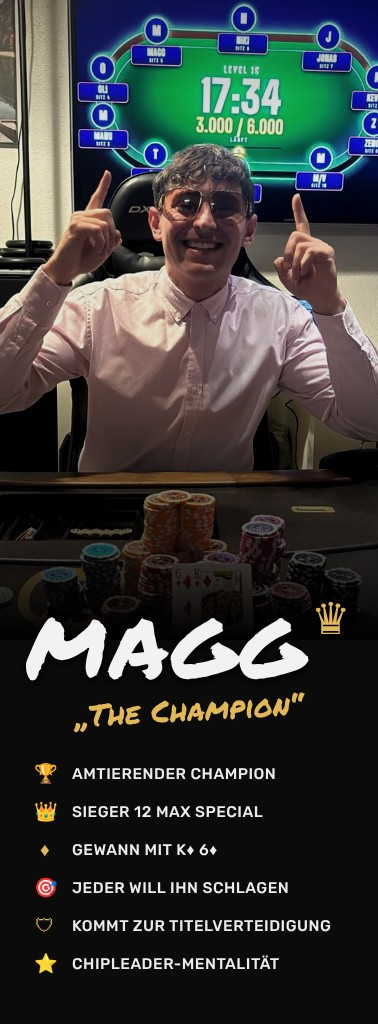
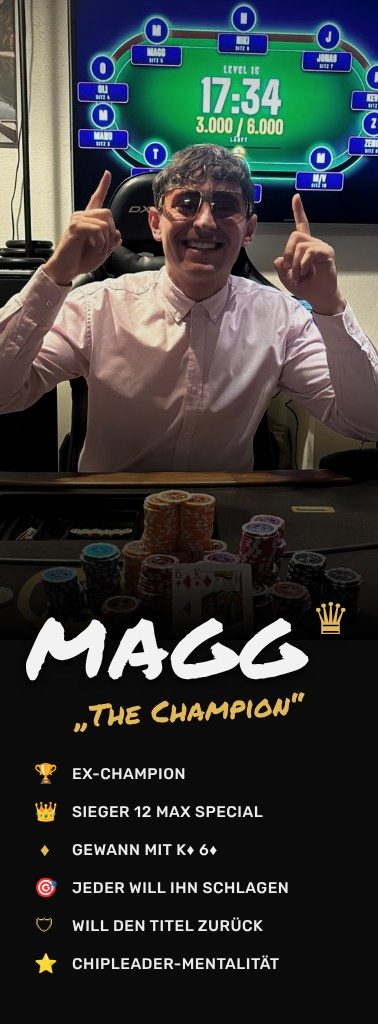
Spielerprofile mit Bankroll-Kurve, Champion-Badge, Magg-Karte Ex-Champion
Claude-Session: https://claude.ai/code/session_01AgPGxtPjejjny7eWLZxXgy

Changed region(s): [[0.2037, 0.875, 0.873, 0.9062], [0.1746, 0.75, 0.7275, 0.7812]]

diff --git a/spieler/index.html b/spieler/index.html
@@ -38,18 +38,56 @@ h1{font-size:clamp(34px,6vw,64px);margin:44px 0 6px;letter-spacing:-.02em;backgr
 .x{position:fixed;top:14px;right:16px;width:42px;height:42px;border-radius:50%;border:1px solid var(--line2);background:#151515;color:var(--fg);font-size:20px;cursor:pointer}
 .nav{position:fixed;top:50%;transform:translateY(-50%);width:46px;height:46px;border-radius:50%;border:1px solid var(--line2);background:#151515;color:var(--fg);font-size:20px;cursor:pointer}
 .nav.l{left:14px}.nav.r{right:14px}
+.champ{position:absolute;left:50%;top:10px;transform:translateX(-50%);z-index:3;white-space:nowrap;font-family:"Geist Mono",monospace;font-size:10px;letter-spacing:.14em;text-transform:uppercase;font-weight:600;color:#1a1305;background:linear-gradient(180deg,var(--gold2),var(--gold));padding:5px 10px;border-radius:999px;box-shadow:0 4px 14px rgba(0,0,0,.6),0 0 18px rgba(226,184,87,.45)}
+.c .champ{font-size:9px;padding:4px 8px}
+.prof{position:fixed;inset:0;z-index:15;background:var(--bg);overflow-y:auto;animation:fade .4s var(--ease) both}
+@keyframes fade{from{opacity:0}}
+.prof .wrap{padding-top:22px;padding-bottom:60px}
+.ptop{display:flex;justify-content:space-between;align-items:center;gap:12px;margin-bottom:22px}
+.pgrid{display:grid;grid-template-columns:minmax(200px,300px) 1fr;gap:32px;align-items:start}
+.pcard{position:relative;aspect-ratio:378/1024;border-radius:16px;overflow:hidden;cursor:zoom-in;border:0;padding:0;background:#111;box-shadow:0 0 0 1px var(--gold3),0 18px 40px rgba(0,0,0,.7);width:100%}
+.pcard img{width:100%;height:100%;object-fit:cover;display:block}
+.pcard .anim,.pcard .fg{position:absolute;left:0;top:0;width:100%;height:62.5%}
+.pname{font-size:clamp(34px,5vw,56px);font-weight:650;letter-spacing:-.02em;margin:0;background:linear-gradient(180deg,var(--gold2),var(--gold));-webkit-background-clip:text;background-clip:text;color:transparent}
+.pnick{color:var(--grey);font-family:"Geist Mono",monospace;font-size:13px;letter-spacing:.1em;text-transform:uppercase;margin:6px 0 22px}
+.tiles{display:grid;grid-template-columns:repeat(4,1fr);gap:10px;margin-bottom:22px}
+.tile{background:var(--surface);border:1px solid var(--line);border-radius:14px;padding:14px}
+.tile b{display:block;font-size:26px;font-weight:650;font-variant-numeric:tabular-nums}
+.tile span{color:var(--grey);font-size:12px}
+.box{background:var(--surface);border:1px solid var(--line);border-radius:16px;padding:18px;margin-bottom:22px}
+.box h3{margin:0 0 4px;font-size:18px}.box .note{color:var(--grey);font-size:12px;margin:0 0 14px}
+.hero{font-size:40px;font-weight:650;font-variant-numeric:tabular-nums;letter-spacing:-.02em;margin:2px 0 4px}
+.chart{position:relative}.chart svg{width:100%;height:auto;display:block;overflow:visible}
+.chart .ax{fill:var(--grey);font-size:11px;font-family:"Geist Mono",monospace}
+.chart .gl{stroke:var(--line);stroke-width:1}.chart .zl{stroke:var(--line2);stroke-width:1.5;stroke-dasharray:4 4}
+.chart .ln{fill:none;stroke:var(--gold);stroke-width:2;stroke-linejoin:round;stroke-linecap:round}
+.chart .pt{fill:var(--gold);stroke:var(--surface);stroke-width:2}
+.chart .pt.on{r:7}
+.chart .xh{stroke:var(--grey);stroke-width:1;opacity:0}
+.chart .lbl{fill:var(--fg);font-size:12px;font-weight:600;font-family:"Geist Mono",monospace}
+.tip{position:absolute;pointer-events:none;background:#1b1b1b;border:1px solid var(--line2);border-radius:10px;padding:9px 11px;font-size:12px;line-height:1.5;min-width:150px;box-shadow:0 10px 30px rgba(0,0,0,.6);transform:translate(-50%,calc(-100% - 12px));opacity:0;transition:opacity .15s}
+.tip b{display:block;font-size:13px;margin-bottom:2px}.tip i{font-style:normal;color:var(--grey)}
+table{width:100%;border-collapse:collapse;font-size:13px}
+th{text-align:left;color:var(--grey);font-weight:500;font-size:11px;text-transform:uppercase;letter-spacing:.06em;padding:8px 6px;border-bottom:1px solid var(--line)}
+td{padding:9px 6px;border-bottom:1px solid var(--line);font-variant-numeric:tabular-nums}
+td.n,th.n{text-align:right}
+.tw{overflow-x:auto}
+.empty{color:var(--grey);font-size:14px}
+.pgrid>div{min-width:0}
+@media(max-width:760px){.pgrid{grid-template-columns:minmax(0,1fr)}.pcard{display:block;max-width:170px;margin:0 auto}.pname{text-align:center}.pnick{text-align:center}.tiles{grid-template-columns:repeat(2,1fr)}.ptop .logo{display:none}}
 @media(max-width:560px){.grid{grid-template-columns:repeat(2,1fr);gap:12px}.c{border-radius:10px}.nav{display:none}}
 @media(prefers-reduced-motion:reduce){*{animation:none!important}}
 </style></head><body>
 <header><div class="wrap"><span class="logo">♠ Blue Chip Club</span><a class="back" href="../">← Zur Lobby</a></div></header>
 <main class="wrap">
 <h1>Spielerprofile</h1>
-<p class="sub">Die Stammspieler · tippen zum Vergrößern</p>
+<p class="sub">Die Stammspieler · tippen fürs Profil</p>
 <div class="grid" id="g"></div>
 </main>
+<div class="prof" id="prof" hidden></div>
 <div class="ov" id="ov" hidden><button class="x" id="x" aria-label="Schließen">✕</button><button class="nav l" id="pl" aria-label="Zurück">‹</button><div id="bigw"></div><button class="nav r" id="nr" aria-label="Weiter">›</button></div>
 <script>
-const K="../tafel/karten/",V="?v=8";
+const K="../tafel/karten/",V="?v=9";
 const P=[
  {n:"Tim",img:"tim.jpg"},{n:"Niklas",img:"niklas.jpg"},{n:"Nico",img:"nico.jpg"},{n:"Manu",img:"manu.jpg"},
  {n:"Magg",img:"magg.jpg"},{n:"Oli",img:"oli.jpg",fg:"oli-fg.png"},{n:"Domi C",img:"domi-c.jpg",fg:"domi-c-fg.png"},{n:"Philipp",img:"philipp.jpg",fg:"philipp-fg.png"},
@@ -60,15 +98,68 @@ function inner(p){
   const bok=Array.from({length:14},()=>'<i style="--x:'+R(0,100).toFixed(0)+'%;--y:'+R(0,95).toFixed(0)+'%;--s:'+R(6,30).toFixed(0)+'px;--d:'+R(3,8).toFixed(1)+'s;--w:'+R(-6,0).toFixed(1)+'s"></i>').join("");
   return '<img src="'+K+p.img+V+'" alt="Spielerkarte '+p.n+'" loading="lazy">'+(p.fg?'<div class="anim">'+bok+'<b class="smk"></b></div><img class="fg" src="'+K+p.fg+'" alt="">':'')+'<span class="shine"></span>';
 }
-const real=P.filter(p=>p.img);let cur=-1;
-document.getElementById("g").innerHTML=P.map((p,k)=>p.img?'<button class="c" style="--k:'+k+'" data-i="'+real.indexOf(p)+'">'+inner(p)+'</button>':'<div class="c soon" style="--k:'+k+'"><b>?</b><span>'+p.n+'</span><small>Karte folgt</small></div>').join("");
-const ov=document.getElementById("ov"),bw=document.getElementById("bigw");
-function show(i){cur=(i+real.length)%real.length;bw.innerHTML='<div class="big">'+inner(real[cur])+'</div>';ov.hidden=false;}
-document.querySelectorAll(".c[data-i]").forEach(b=>b.onclick=()=>show(+b.dataset.i));
+const real=P.filter(p=>p.img);let cur=-1,D=null,CH="";
+const esc=x=>String(x??"").replace(/[&<>"']/g,c=>({"&":"&amp;","<":"&lt;",">":"&gt;",'"':"&quot;","'":"&#39;"}[c]));
+const fmt=n=>(n<0?"−":n>0?"+":"")+Math.abs(n).toLocaleString("de-DE")+" P",fmtA=n=>Math.abs(n).toLocaleString("de-DE")+" P";
+const fd=d=>{const[y,m,t]=String(d).split("-");return t+"."+m+"."};
+const tN=t=>t.title||("Turnier "+t.nr);
+const champBadge=n=>n&&n===CH?'<span class="champ">♛ Amtierender Champion</span>':"";
+function grid(){document.getElementById("g").innerHTML=P.map((p,k)=>'<button class="c" style="--k:'+k+'" data-n="'+esc(p.n)+'">'+inner(p)+champBadge(p.n)+'</button>').join("");
+ document.querySelectorAll(".c[data-n]").forEach(b=>b.onclick=()=>{location.hash="p="+encodeURIComponent(b.dataset.n)});}
+grid();
+const ov=document.getElementById("ov"),bw=document.getElementById("bigw"),pr=document.getElementById("prof");
+function show(i){cur=(i+real.length)%real.length;bw.innerHTML='<div class="big">'+inner(real[cur])+champBadge(real[cur].n)+'</div>';ov.hidden=false;}
+function stats(n){
+ const T=(D?D.tournaments:[]).slice().sort((a,b)=>a.date<b.date?-1:1),pts=(D&&D.settings.points)||{};
+ const rows=[];let played=0,wins=0,pod=0,points=0,prize=0;
+ for(const t of T){const r=(t.results||[]).find(x=>x.name&&x.name.trim()===n),inP=(t.participants||[]).includes(n)||!!r;if(!inP)continue;
+  played++;const pl=r?r.place:null,pz=r?Number(r.prize)||0:0;if(pl===1)wins++;if(pl)pod++;points+=(Number(pts["p"+pl])||0)+(Number(pts.teil)||0);prize+=pz;
+  let e=null,cost=null;if(t.entriesBy&&Object.keys(t.entriesBy).length){e=Number(t.entriesBy[n])||0;if(e){const b=Number(t.buyin)||0,rp=t.rebuyPrice==null||t.rebuyPrice===""?b:Number(t.rebuyPrice)||0;cost=b+(e-1)*rp;}}
+  rows.push({t,pl,pz,e,cost,net:cost==null?null:pz-cost});}
+ let run=0;const curve=rows.filter(x=>x.net!=null).map(x=>(run+=x.net,Object.assign({run},x)));
+ return{rows,played,wins,pod,points,prize,curve,bal:run};}
+function chart(cv){
+ if(!cv.length)return'<p class="empty">Noch keine Entries erfasst. Die Kurve startet, sobald ein Turnier mit Entries pro Spieler eingetragen ist.</p>';
+ const pts=[{run:0,lab:"Start"}].concat(cv.map(x=>({run:x.run,lab:tN(x.t),x}))),W=600,H=240,L=46,R=70,Tp=16,B=34;
+ let mn=Math.min(0,...pts.map(p=>p.run)),mx=Math.max(0,...pts.map(p=>p.run));if(mn===mx){mn-=50;mx+=50}
+ const st=[10,20,25,50,100,200,250,500,1000].find(s=>(mx-mn)/s<=5)||1000;mn=Math.floor(mn/st)*st;mx=Math.ceil(mx/st)*st;
+ const X=i=>L+(pts.length===1?0:i*(W-L-R)/(pts.length-1)),Y=v=>Tp+(mx-v)*(H-Tp-B)/(mx-mn);
+ let g="";for(let v=mn;v<=mx+1e-9;v+=st)g+='<line class="'+(v===0?"zl":"gl")+'" x1="'+L+'" x2="'+(W-R+10)+'" y1="'+Y(v)+'" y2="'+Y(v)+'"/><text class="ax" x="'+(L-8)+'" y="'+(Y(v)+4)+'" text-anchor="end">'+(v>0?"+":v<0?"−":"")+Math.abs(v)+'</text>';
+ const xl=pts.map((p,i)=>'<text class="ax" x="'+X(i)+'" y="'+(H-10)+'" text-anchor="'+(i===0?"start":i===pts.length-1&&pts.length>2?"end":"middle")+'">'+esc(p.x?fd(p.x.t.date):"Start")+'</text>').join("");
+ const d=pts.map((p,i)=>(i?"L":"M")+X(i).toFixed(1)+" "+Y(p.run).toFixed(1)).join(" "),z=Y(0);
+ const area='M'+X(0)+' '+z+' '+pts.map((p,i)=>"L"+X(i).toFixed(1)+" "+Y(p.run).toFixed(1)).join(" ")+' L'+X(pts.length-1)+' '+z+'Z';
+ const last=pts[pts.length-1];
+ const dots=pts.map((p,i)=>'<circle class="pt" data-i="'+i+'" cx="'+X(i)+'" cy="'+Y(p.run)+'" r="5"/>').join("");
+ const hits=pts.map((p,i)=>{const w=pts.length>1?(W-L-R)/(pts.length-1):W;return'<rect data-i="'+i+'" x="'+(X(i)-w/2)+'" y="0" width="'+w+'" height="'+H+'" fill="transparent"/>'}).join("");
+ return'<div class="chart" id="ch"><svg viewBox="0 0 '+W+' '+H+'" role="img" aria-label="Bankroll-Verlauf"><defs><linearGradient id="ag" x1="0" y1="0" x2="0" y2="1"><stop offset="0" stop-color="#e2b857" stop-opacity=".28"/><stop offset="1" stop-color="#e2b857" stop-opacity="0"/></linearGradient></defs>'+g+'<path d="'+area+'" fill="url(#ag)"/><line class="xh" id="xh" y1="'+Tp+'" y2="'+(H-B)+'"/><path class="ln" d="'+d+'"/>'+dots+'<text class="lbl" x="'+(X(pts.length-1)+10)+'" y="'+(Y(last.run)+4)+'">'+esc(fmt(last.run))+'</text>'+xl+hits+'</svg><div class="tip" id="tip"></div></div>';
+ }
+function wire(cv){const ch=document.getElementById("ch");if(!ch)return;const svg=ch.querySelector("svg"),tip=document.getElementById("tip"),xh=document.getElementById("xh");
+ const pts=[null].concat(cv);
+ const on=i=>{const c=svg.querySelector('circle[data-i="'+i+'"]');svg.querySelectorAll("circle").forEach(x=>x.classList.toggle("on",x===c));const p=pts[i];
+  const r=svg.getBoundingClientRect(),k=r.width/600,cx=+c.getAttribute("cx"),cy=+c.getAttribute("cy");xh.setAttribute("x1",cx);xh.setAttribute("x2",cx);xh.style.opacity=.5;
+  tip.innerHTML=p?'<b>'+esc(tN(p.t))+'</b><i>'+fd(p.t.date)+' · '+p.e+(p.e===1?" Entry":" Entries")+'</i><br>Eingesetzt '+fmtA(p.cost)+'<br>Gewonnen '+fmtA(p.pz)+'<br>Abend '+fmt(p.net)+'<br><b style="margin-top:4px">Stand '+fmt(p.run)+'</b>':'<b>Start</b><i>Ab hier wird gezählt</i>';
+  tip.style.left=Math.min(Math.max(cx*k,80),r.width-80)+"px";tip.style.top=(cy*k)+"px";tip.style.opacity=1;};
+ const off=()=>{tip.style.opacity=0;xh.style.opacity=0;svg.querySelectorAll("circle").forEach(x=>x.classList.remove("on"))};
+ svg.querySelectorAll("rect[data-i]").forEach(r=>{r.addEventListener("mouseenter",()=>on(+r.dataset.i));r.addEventListener("click",()=>on(+r.dataset.i))});svg.addEventListener("mouseleave",off);}
+function profile(n){
+ const p=P.find(x=>x.n===n);if(!p){pr.hidden=true;return}
+ const s=stats(n),nick=(D&&D.settings.nicknames||{})[n]||"",first=D?D.tournaments.filter(t=>t.entriesBy&&Object.keys(t.entriesBy).length).sort((a,b)=>a.date<b.date?-1:1)[0]:null;
+ const tbl=s.rows.length?'<div class="tw"><table><thead><tr><th>Turnier</th><th>Datum</th><th>Platz</th><th class="n">Entries</th><th class="n">Eingesetzt</th><th class="n">Gewonnen</th><th class="n">Abend</th></tr></thead><tbody>'+s.rows.slice().reverse().map(r=>'<tr><td>'+esc(tN(r.t))+'</td><td>'+fd(r.t.date)+'</td><td>'+(r.pl?r.pl+".":"–")+'</td><td class="n">'+(r.e??"–")+'</td><td class="n">'+(r.cost==null?"–":fmtA(r.cost))+'</td><td class="n">'+(r.pz?fmtA(r.pz):"–")+'</td><td class="n">'+(r.net==null?"–":fmt(r.net))+'</td></tr>').join("")+'</tbody></table></div>':'<p class="empty">Noch kein Turnier gespielt.</p>';
+ pr.innerHTML='<div class="wrap"><div class="ptop"><a class="back" href="#">← Alle Spieler</a><span class="logo">♠ Blue Chip Club</span></div><div class="pgrid"><div><button class="pcard" id="pc" aria-label="Karte vergrößern">'+inner(p)+champBadge(n)+'</button></div><div>'+
+  '<h1 class="pname">'+esc(n)+'</h1><p class="pnick">'+(n===CH?"♛ Amtierender Champion":"")+(n===CH&&nick?" · ":"")+esc(nick)+'</p>'+
+  '<div class="tiles"><div class="tile"><b>'+s.played+'</b><span>Turniere</span></div><div class="tile"><b>'+s.wins+'</b><span>Siege</span></div><div class="tile"><b>'+s.pod+'</b><span>Im Geld</span></div><div class="tile"><b>'+s.points+'</b><span>Liga-Punkte</span></div></div>'+
+  '<div class="box"><h3>Bankroll</h3><p class="note">Gewonnen minus eingesetzt, Turnier für Turnier'+(first?' · gezählt ab '+esc(tN(first)):"")+'</p>'+(s.curve.length?'<div class="hero">'+esc(fmt(s.bal))+'</div>':"")+chart(s.curve)+'</div>'+
+  '<div class="box"><h3>Alle Turniere</h3><p class="note">Preisgeld gesamt '+fmtA(s.prize)+'</p>'+tbl+'</div></div></div></div>';
+ pr.hidden=false;pr.scrollTop=0;wire(s.curve);
+ document.getElementById("pc").onclick=()=>show(real.indexOf(p));}
+function route(){const m=location.hash.match(/^#p=(.+)$/);if(m)profile(decodeURIComponent(m[1]));else pr.hidden=true;}
+addEventListener("hashchange",route);
+fetch("../index.html",{cache:"no-cache"}).then(r=>r.text()).then(h=>{const m=h.match(/<script[^>]*id="liga-data"[^>]*>([\s\S]*?)<\/script>/);if(m)D=JSON.parse(m[1]);
+ const T=D.tournaments.filter(t=>(t.results||[]).some(r=>r.place===1&&r.name)).sort((a,b)=>a.date<b.date?-1:1);CH=T.length?T[T.length-1].results.find(r=>r.place===1).name.trim():"";grid();}).catch(()=>{}).finally(route);
 document.getElementById("x").onclick=()=>{ov.hidden=true;};
 ov.onclick=e=>{if(e.target===ov)ov.hidden=true;};
 document.getElementById("pl").onclick=e=>{e.stopPropagation();show(cur-1);};
 document.getElementById("nr").onclick=e=>{e.stopPropagation();show(cur+1);};
-addEventListener("keydown",e=>{if(ov.hidden)return;if(e.key==="Escape")ov.hidden=true;if(e.key==="ArrowLeft")show(cur-1);if(e.key==="ArrowRight")show(cur+1);});
+addEventListener("keydown",e=>{if(!ov.hidden){if(e.key==="Escape")ov.hidden=true;if(e.key==="ArrowLeft")show(cur-1);if(e.key==="ArrowRight")show(cur+1);}else if(!pr.hidden&&e.key==="Escape")location.hash="";});
 let tx=0;ov.addEventListener("touchstart",e=>tx=e.touches[0].clientX,{passive:true});ov.addEventListener("touchend",e=>{const d=e.changedTouches[0].clientX-tx;if(Math.abs(d)>50)show(cur+(d<0?1:-1));});
 </script></body></html>

diff --git a/tafel/index.html b/tafel/index.html
@@ -801,7 +801,7 @@ Object.values(CARDS).forEach(u=>[].concat(typeof u==="string"?u:[u.img,u.fg]).fo
 function cardHtml(c){
   if(!c)return null;const o=typeof c==="string"?{img:c}:c;
   const bokeh=Array.from({length:14},(_,j)=>'<i style="--x:'+(Math.random()*100).toFixed(0)+'%;--y:'+(Math.random()*95).toFixed(0)+'%;--s:'+(6+Math.random()*26).toFixed(0)+'px;--d:'+(3+Math.random()*5).toFixed(1)+'s;--w:'+(Math.random()*-6).toFixed(1)+'s"></i>').join("");
-  const V=/^karten\//.test(o.img)?"?v=8":"";return '<img src="'+o.img+V+'" alt="">'+(o.fg?'<div class="anim">'+bokeh+'<b class="smk"></b></div><img class="fg" src="'+o.fg+V+'" alt="">':'')+'<span class="shine"></span>';
+  const V=/^karten\//.test(o.img)?"?v=9":"";return '<img src="'+o.img+V+'" alt="">'+(o.fg?'<div class="anim">'+bokeh+'<b class="smk"></b></div><img class="fg" src="'+o.fg+V+'" alt="">':'')+'<span class="shine"></span>';
 }
 let intro=null;
 function introShow(list,done,o){o=o||{};
